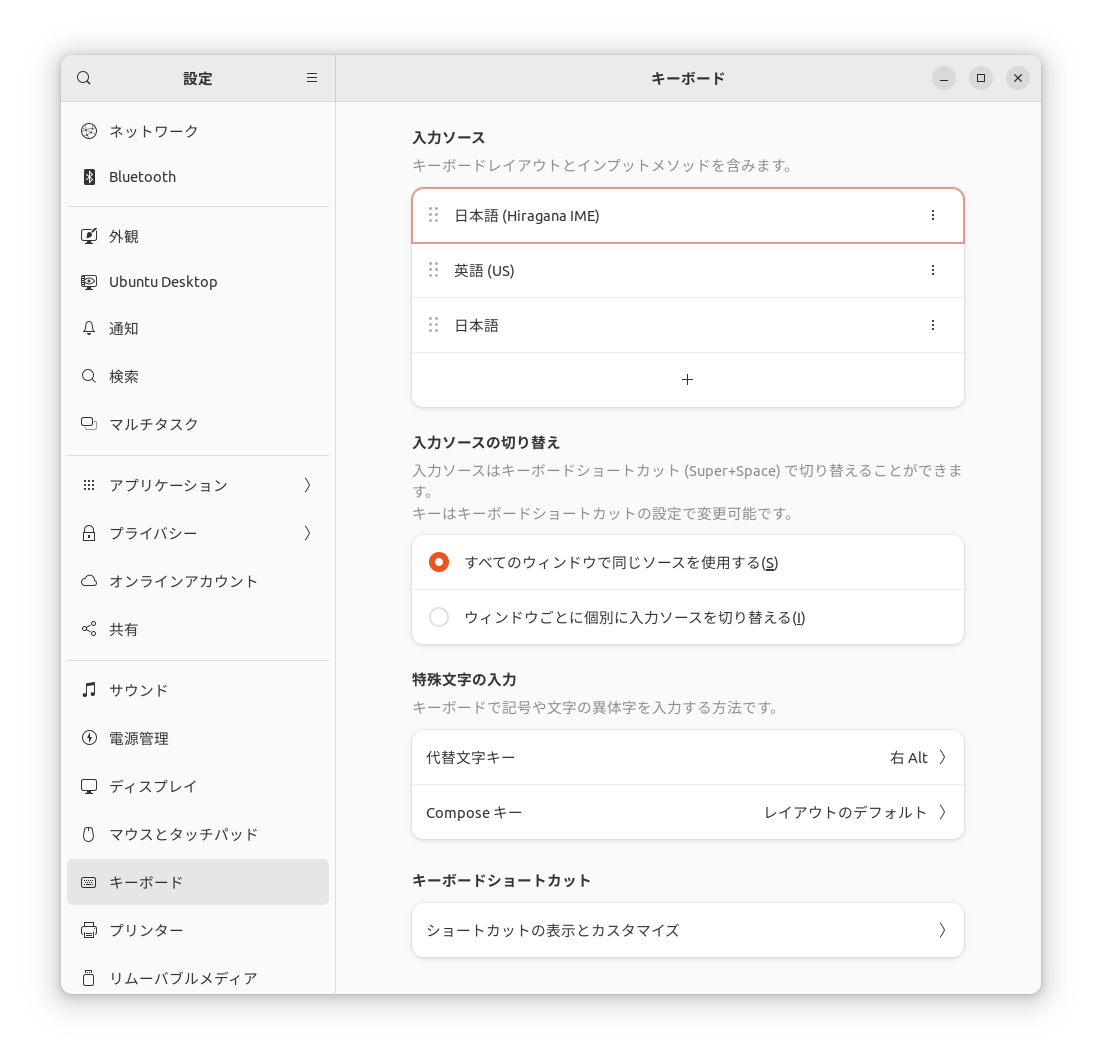
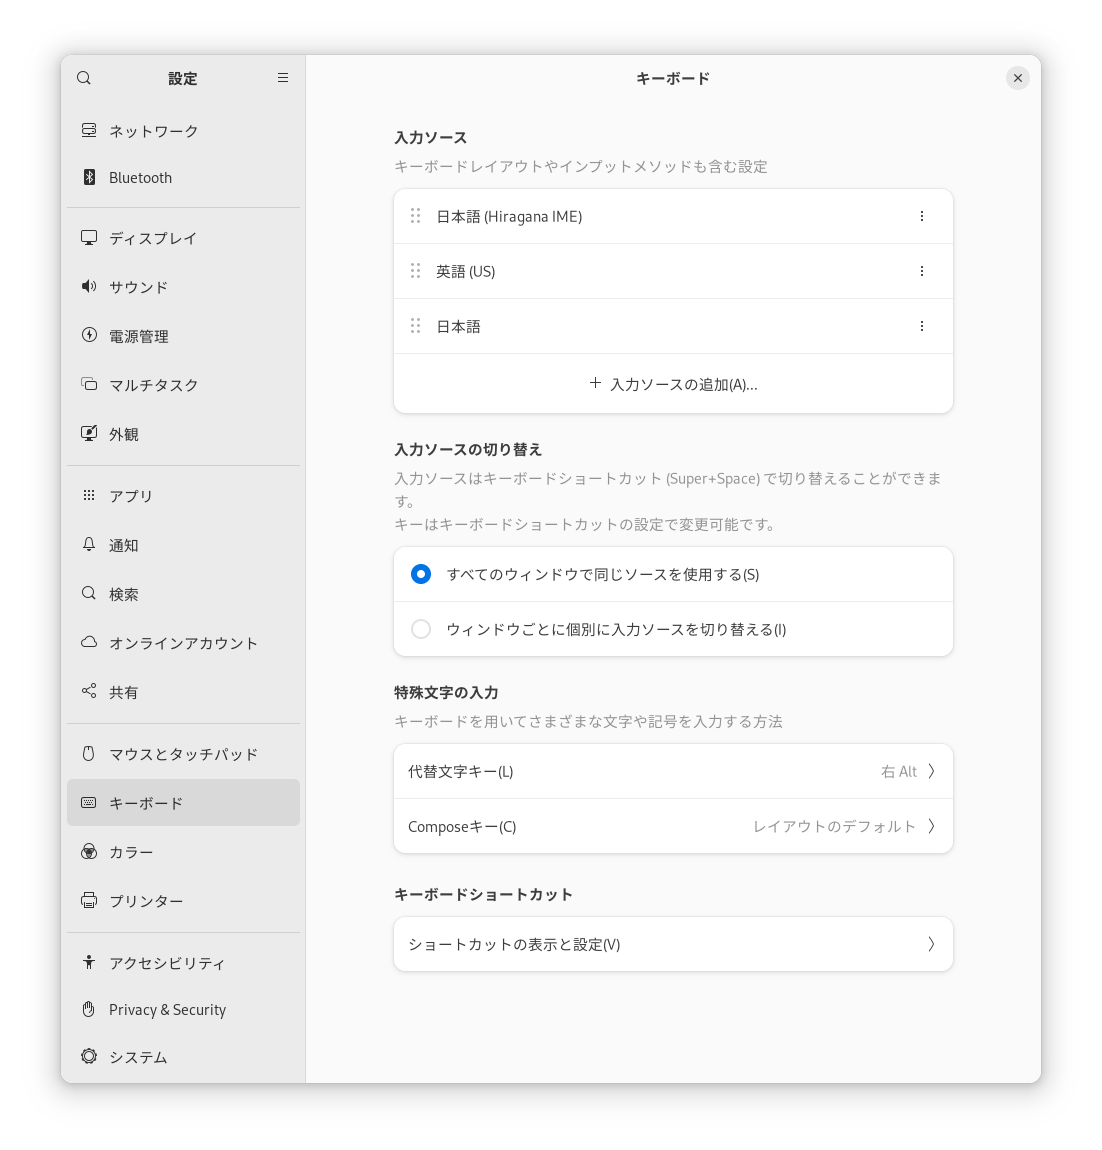
Update screenshots
docs/Makefile.am
docs/altgr.html
docs/altgr.md
docs/settings-keyboard.png

diff --git a/docs/altgr.html b/docs/altgr.html
@@ -110,7 +110,7 @@ function shrinkToc() {
 <p>&#x3000;<ruby>日本語<rp>(</rp><rt>にほんご</rt><rp>)</rp></ruby>にも、よくつかう<ruby>文字<rp>(</rp><rt>もじ</rt><rp>)</rp></ruby>で、キーボードからちょくせつ<ruby>入力<rp>(</rp><rt>にゅうりょく</rt><rp>)</rp></ruby>できない<ruby>文字<rp>(</rp><rt>もじ</rt><rp>)</rp></ruby>があります。たとえば、<ruby>郵便<rp>(</rp><rt>ゆうびん</rt><rp>)</rp></ruby><ruby>番号<rp>(</rp><rt>ばんごう</rt><rp>)</rp></ruby>の「〒」や、<ruby>温度<rp>(</rp><rt>おんど</rt><rp>)</rp></ruby>の「℃」といった<ruby>文字<rp>(</rp><rt>もじ</rt><rp>)</rp></ruby>です。「ひらがなIME」では、そうした<ruby>文字<rp>(</rp><rt>もじ</rt><rp>)</rp></ruby>を<span class='key'>AltGr</span>キーをつかって<ruby>入力<rp>(</rp><rt>にゅうりょく</rt><rp>)</rp></ruby>することができます。</p>
 <h2 id="altgr-settings"><ruby>右<rp>(</rp><rt>みぎ</rt><rp>)</rp></ruby><span class='key'>Alt</span>キーを<span class='key'>AltGr</span>キーに<ruby>設定<rp>(</rp><rt>せってい</rt><rp>)</rp></ruby>する<ruby>方法<rp>(</rp><rt>ほうほう</rt><rp>)</rp></ruby></h2>
 <p>&#x3000;GNOME<ruby>環境<rp>(</rp><rt>かんきょう</rt><rp>)</rp></ruby>を<ruby>利用<rp>(</rp><rt>りよう</rt><rp>)</rp></ruby>しているばあいは、GNOMEの「<ruby>設定<rp>(</rp><rt>せってい</rt><rp>)</rp></ruby>」をひらいて、「キーボード」を<ruby>選択<rp>(</rp><rt>せんたく</rt><rp>)</rp></ruby>します。このなかの「<ruby>特殊<rp>(</rp><rt>とくしゅ</rt><rp>)</rp></ruby><ruby>文字<rp>(</rp><rt>もじ</rt><rp>)</rp></ruby>の<ruby>入力<rp>(</rp><rt>にゅうりょく</rt><rp>)</rp></ruby>」にある「<ruby>代替<rp>(</rp><rt>だいたい</rt><rp>)</rp></ruby><ruby>文字<rp>(</rp><rt>もじ</rt><rp>)</rp></ruby>キー」を「<ruby>右<rp>(</rp><rt>みぎ</rt><rp>)</rp></ruby>Alt」に<ruby>設定<rp>(</rp><rt>せってい</rt><rp>)</rp></ruby>します。</p>
-<p><img alt="&lt;ruby&gt;設定&lt;rp&gt;(&lt;/rp&gt;&lt;rt&gt;せってい&lt;/rt&gt;&lt;rp&gt;)&lt;/rp&gt;&lt;/ruby&gt;—キーボード" src="settings-altgr.png"></p>
+<p><img alt="&lt;ruby&gt;設定&lt;rp&gt;(&lt;/rp&gt;&lt;rt&gt;せってい&lt;/rt&gt;&lt;rp&gt;)&lt;/rp&gt;&lt;/ruby&gt;—キーボード" src="settings-keyboard.png"></p>
 <h2 id="altgr-characters"><span class='key'>AltGr</span>キーをつかって<ruby>入力<rp>(</rp><rt>にゅうりょく</rt><rp>)</rp></ruby>できる<ruby>文字<rp>(</rp><rt>もじ</rt><rp>)</rp></ruby>や<ruby>記号<rp>(</rp><rt>きごう</rt><rp>)</rp></ruby></h2>
 <p>&#x3000;<span class='key'>AltGr</span><ruby>面<rp>(</rp><rt>めん</rt><rp>)</rp></ruby>の<ruby>文字<rp>(</rp><rt>もじ</rt><rp>)</rp></ruby>を<ruby>入力<rp>(</rp><rt>にゅうりょく</rt><rp>)</rp></ruby>するときは、<span class='key'>AltGr</span>キーをおさえながら、<ruby>目的<rp>(</rp><rt>もくてき</rt><rp>)</rp></ruby>の<ruby>文字<rp>(</rp><rt>もじ</rt><rp>)</rp></ruby>のキーをおします。</p>
 <h3><ruby>例<rp>(</rp><rt>れい</rt><rp>)</rp></ruby></h3>
